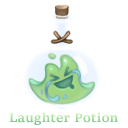
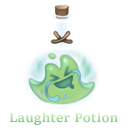
update potion images, toggle text back on

Changed region(s): [[0.5938, 0.4062, 0.75, 0.625], [0.25, 0.4375, 0.375, 0.625]]

diff --git a/sdk/examples/cauldron/main.cpp b/sdk/examples/cauldron/main.cpp
@@ -694,7 +694,7 @@ void main()
 
     // Toggle this for debug or graphic mode for the cauldron cube
     bool debug = false;
-    bool showTextIntro = false;
+    bool showTextIntro = true;
 
     if (!debug) {
         cauldronLoader.load(Cauldron.assetGroup(), AnimationSlot, CUBE_ALLOCATION);
